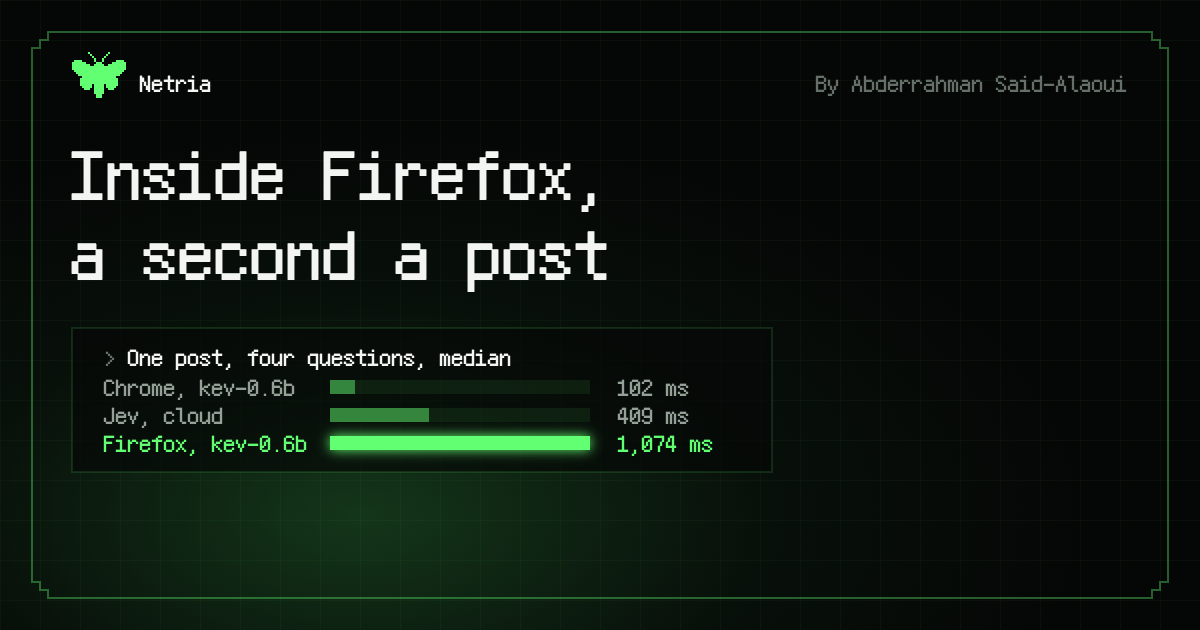
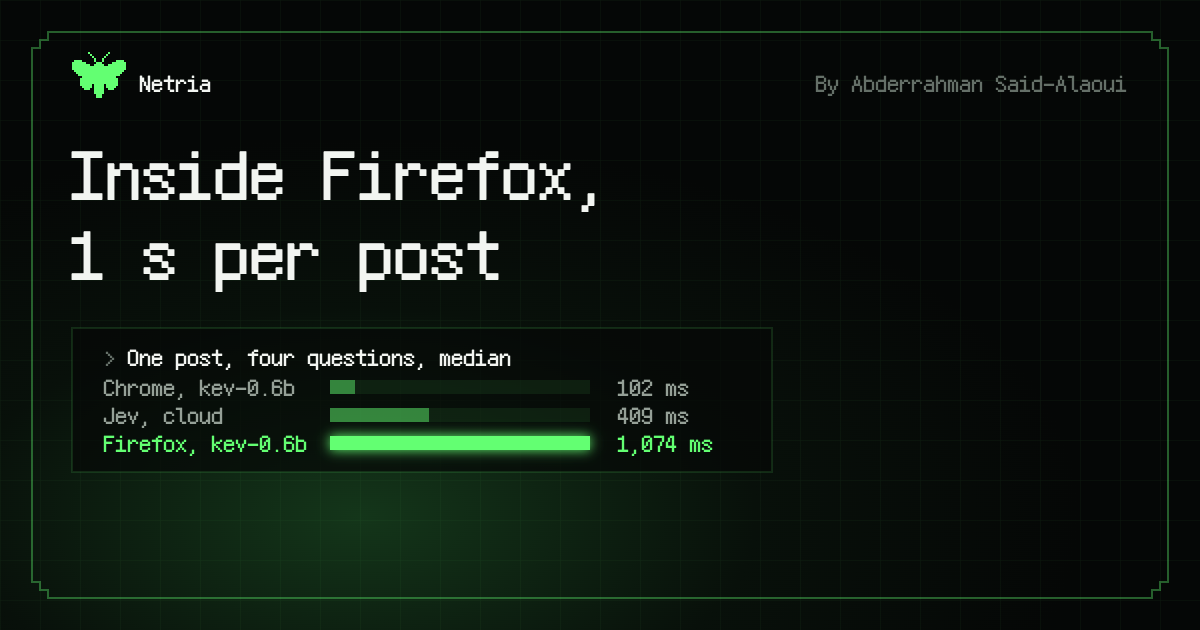
Share image: "1 s per post" instead of "a second a post"
On its own, the card's second line read as "a second post". The new line
says the speed in the same unit as the bars under it. The image description
follows.

Changed region(s): [[0.1233, 0.3619, 0.5242, 0.4524], [0.0617, 0.3619, 0.0925, 0.4524]]

diff --git a/articles/2026-10-21-decision-model-in-firefox.md b/articles/2026-10-21-decision-model-in-firefox.md
@@ -3,7 +3,7 @@ title: "I ran my X feed filter inside Firefox. It works, at a second a post"
 description: Could a decision model run inside Firefox itself, for people who don't run Ollama? A 0.6B model in a throwaway add-on answered Xift's four questions in the ordinary release of Firefox, with nothing leaving the browser. It took one to two seconds a post, and on two of the four questions it did no better than chance.
 # Share image: edit assets/og-firefox-model.svg, then re-export the PNG at 1200x630.
 image: /assets/og-firefox-model.png
-imageAlt: "Inside Firefox, a second a post. Median time for Xift's four questions about one post: kev-0.6b in Chrome 102 ms, Jev in the cloud 409 ms, kev-0.6b in Firefox 1,074 ms."
+imageAlt: "Inside Firefox, 1 s per post. Median time for Xift's four questions about one post: kev-0.6b in Chrome 102 ms, Jev in the cloud 409 ms, kev-0.6b in Firefox 1,074 ms."
 author:
     name: Abderrahman Said-Alaoui
     url: https://www.netria.dev/#founder
